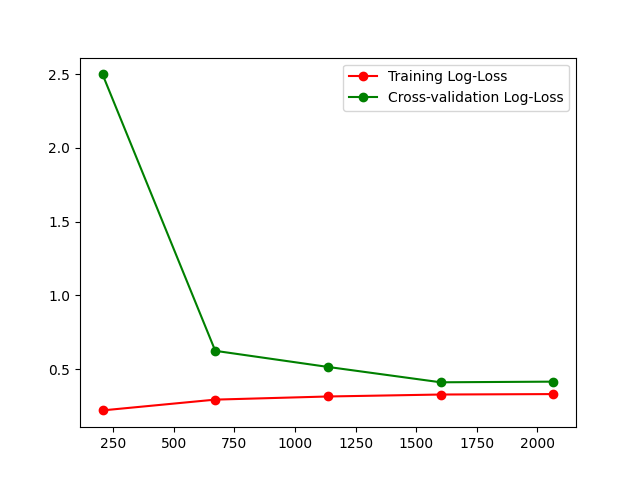
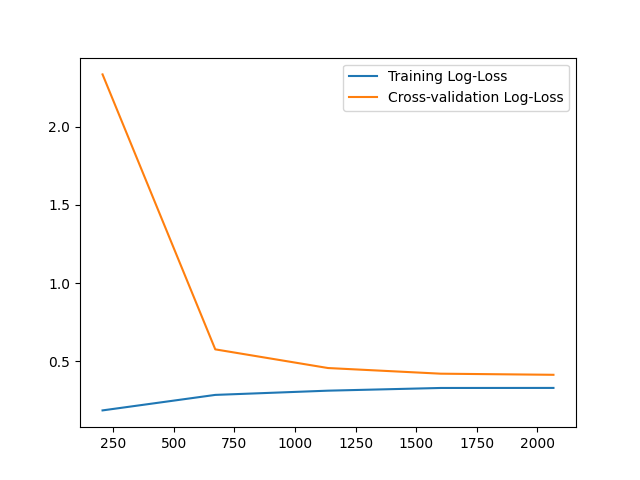
Aggiornato il salvataggio dei grafici per rimuovere i marker. Aggiunto il README.

diff --git a/src/visualization/visualize.py b/src/visualization/visualize.py
@@ -70,8 +70,8 @@ def sklearn_save_learning_curve(model, x_train, y_train, path, file_name):
     train_scores_mean = np.mean(train_scores, axis=1)
     test_scores_mean = np.mean(test_scores, axis=1)
     
-    plt.plot(train_sizes, train_scores_mean, 'o-', color="r", label="Training Log-Loss")
-    plt.plot(train_sizes, test_scores_mean, 'o-', color="g", label="Cross-validation Log-Loss")
+    plt.plot(train_sizes, train_scores_mean, label="Training Log-Loss")
+    plt.plot(train_sizes, test_scores_mean, label="Cross-validation Log-Loss")
 
     plt.legend(loc="best")
     plt.savefig(f'{path}/{file_name}')

diff --git a/main.py b/main.py
@@ -9,7 +9,7 @@ import numpy as np
 
 def main():
     patient_id = 'chb01'
-    run(patient_id, model_type='cnn')
+    run(patient_id, model_type='logistic_regression')
 
 
 def run(patient_id, model_type, load_from_file=True, model_path=constants.MODELS_FOLDER, plot_path=constants.PLOTS_FOLDER):
